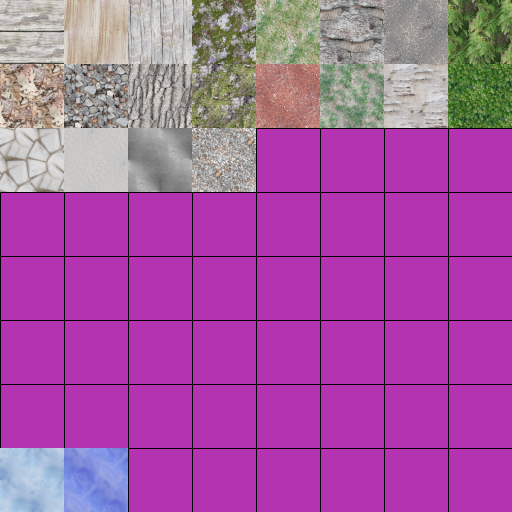
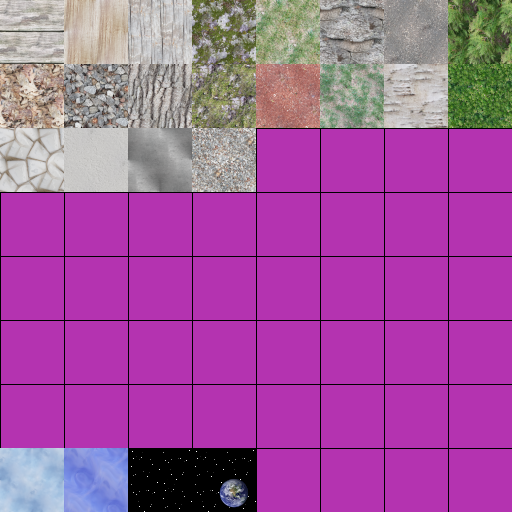
Add moon map

Changed region(s): [[0.25, 0.875, 0.5, 1.0]]

diff --git a/main.py b/main.py
@@ -16,8 +16,8 @@ def main():
     render.init(WINDOW_SIZE)
     events = event.Events()
 
-    test_scene = obj.parse('assets/models/forest.obj')
-    skybox = obj.parse('assets/models/skybox.obj')
+    test_scene = obj.parse('assets/models/moon.obj')
+    skybox = obj.parse('assets/models/moon_skybox.obj')
     skybox.scale *= 500
     skybox.shade = False
     scene = [test_scene, skybox]
